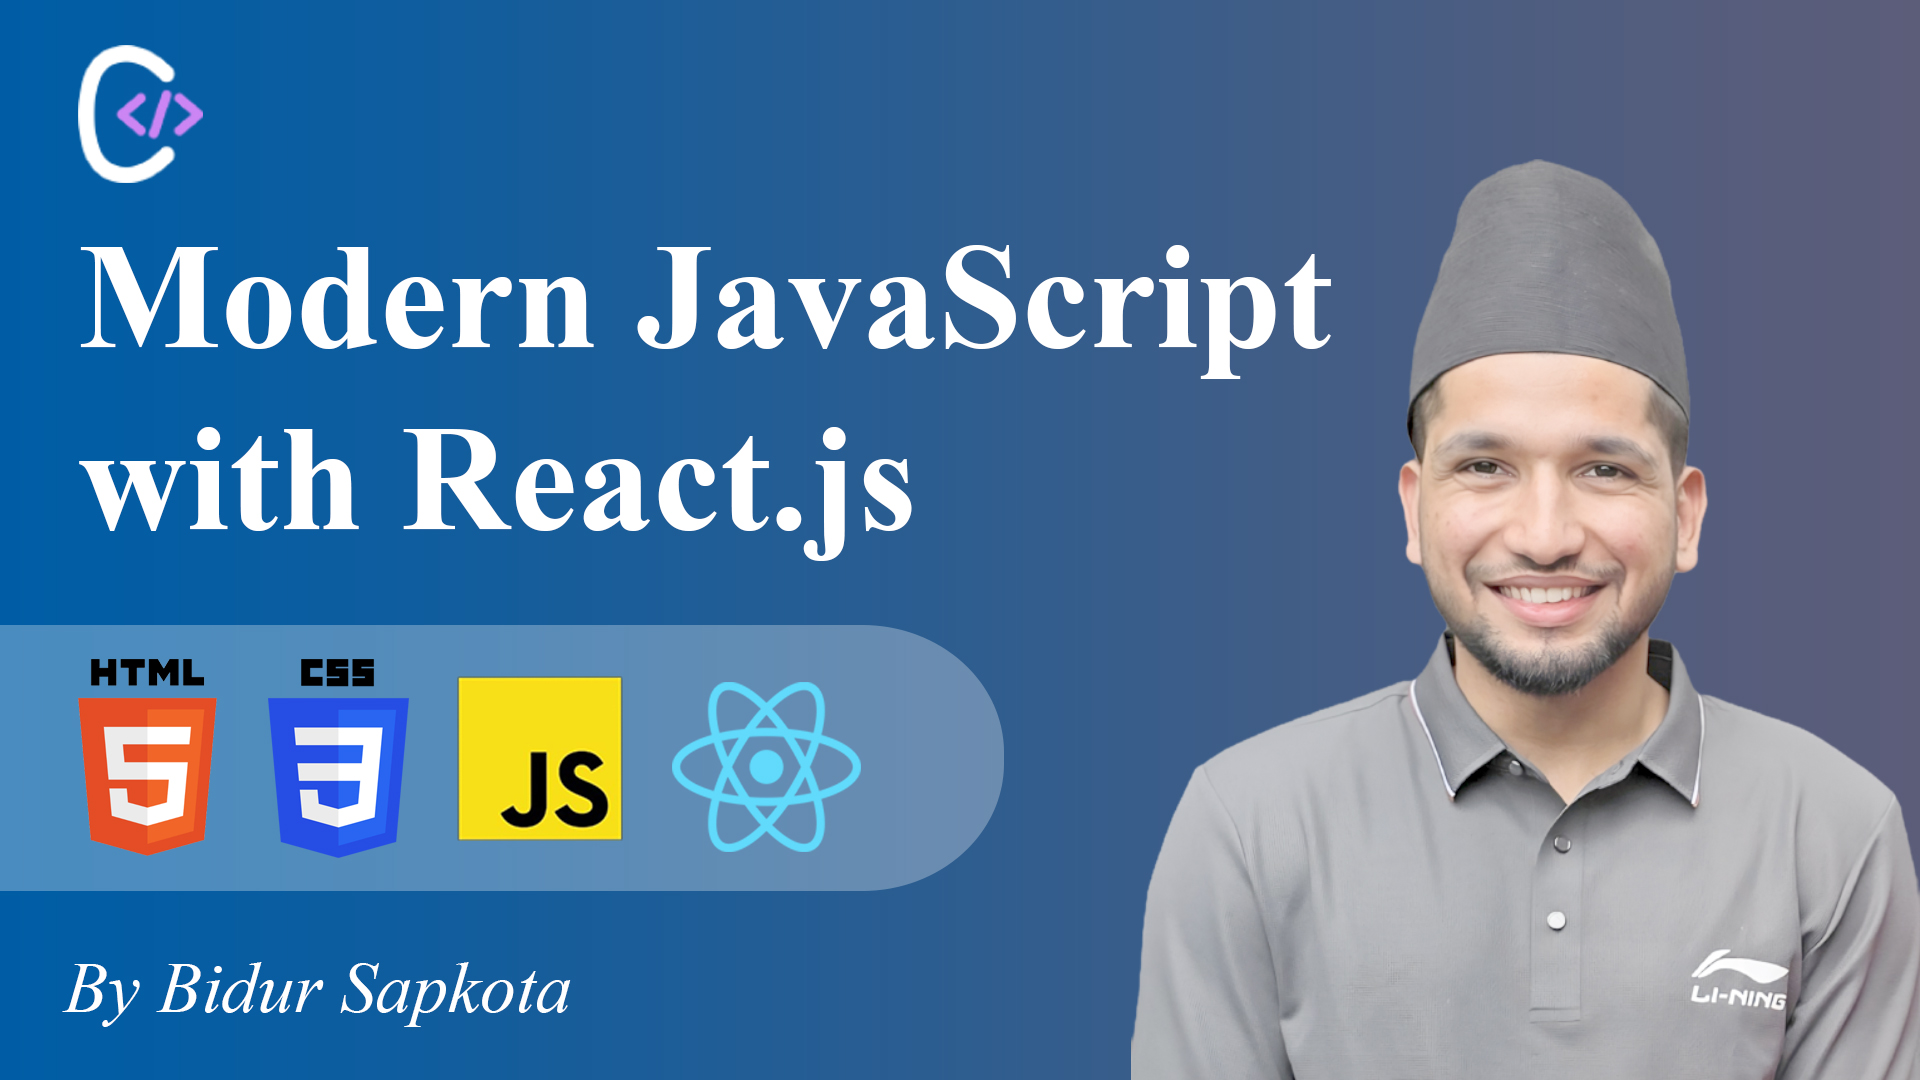
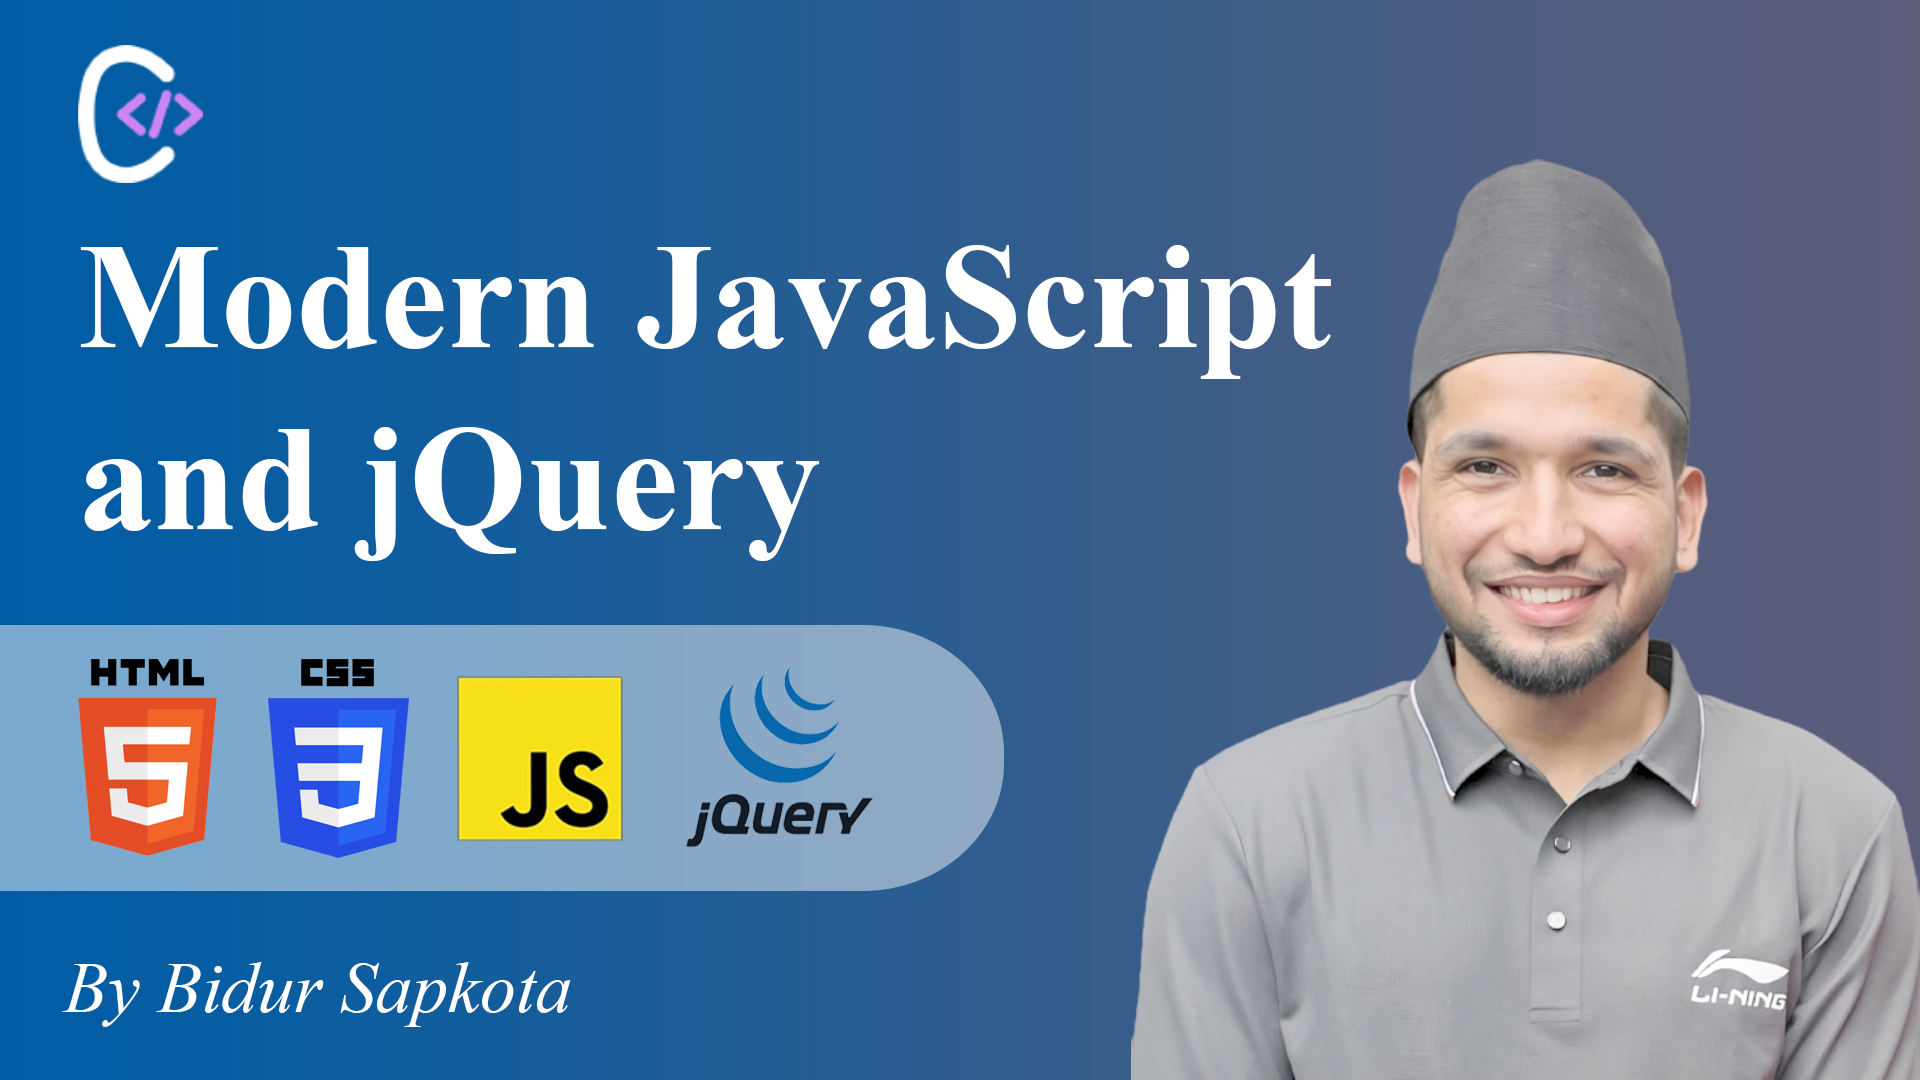
blog updated

Changed region(s): [[0.0, 0.5806, 0.5312, 0.825], [0.0312, 0.3972, 0.5, 0.5194]]

diff --git a/src/utils/data/blogs.ts b/src/utils/data/blogs.ts
@@ -45,24 +45,44 @@ export const blogs: IBlogs[] = [
   {
     baseUrl:
       "https://raw.githubusercontent.com/bidursapkota00/web-application-programming-bct/refs/heads/main",
-    url: "JS_REACT.md",
+    url: "JS.md",
     categoryTitle: "Web Application Programming Complete Guide - BCT - IOE",
-    title:
-      "Web Application Programming: A Complete Guide to JavaScript, and React.js",
+    title: "Web Application Programming: A Complete Guide to JavaScript",
     shortTitle: "Unit 2: JavaScript",
     slug: "web-application-programming-complete-guide",
     github: "https://github.com/bidursapkota00/web-application-programming-bct",
     categoryDescription:
       "Learn basics of web application programming with html, css, javascript, react, django, rest apis, security measures, deployment, and more.",
     description:
-      "Master the fundamentals of web application programming with this comprehensive guide. Designed for students and aspiring developers, it covers in-depth tutorials on JavaScript and React.js to help you build responsive, multi-page websites.",
+      "Master the fundamentals of web application programming with this comprehensive guide. Designed for students and aspiring developers, it covers in-depth tutorials on JavaScript to help you build responsive, multi-page websites.",
     categoryDisplayTitle: "Web App Programming",
     categoryImage: "/images/11-web-application-programming.jpg",
     categorySubTitle: "Web Application Programming",
     image: "/images/11-web-application-programming-2.jpg",
     category: ["HTML", "CSS", "JavaScript", "React", "Django"],
-    divisionCategory: ["javascript", "react"],
-    divisionSlug: "javascript-react",
+    divisionCategory: ["javascript", "jQuery"],
+    divisionSlug: "javascript",
+  },
+  {
+    baseUrl:
+      "https://raw.githubusercontent.com/bidursapkota00/web-application-programming-bct/refs/heads/main",
+    url: "React.md",
+    categoryTitle: "Web Application Programming Complete Guide - BCT - IOE",
+    title: "Web Application Programming: A Complete Guide to React.js",
+    shortTitle: "Unit 2: React.js",
+    slug: "web-application-programming-complete-guide",
+    github: "https://github.com/bidursapkota00/web-application-programming-bct",
+    categoryDescription:
+      "Learn basics of web application programming with html, css, javascript, react, django, rest apis, security measures, deployment, and more.",
+    description:
+      "Master the fundamentals of web application programming with this comprehensive guide. Designed for students and aspiring developers, it covers in-depth tutorials on React.js to help you build responsive, multi-page websites.",
+    categoryDisplayTitle: "Web App Programming",
+    categoryImage: "/images/11-web-application-programming.jpg",
+    categorySubTitle: "Web Application Programming",
+    image: "/images/11-web-application-programming-3.jpg",
+    category: ["HTML", "CSS", "JavaScript", "React", "Django"],
+    divisionCategory: ["react", "javascript"],
+    divisionSlug: "react",
   },
   {
     baseUrl:
